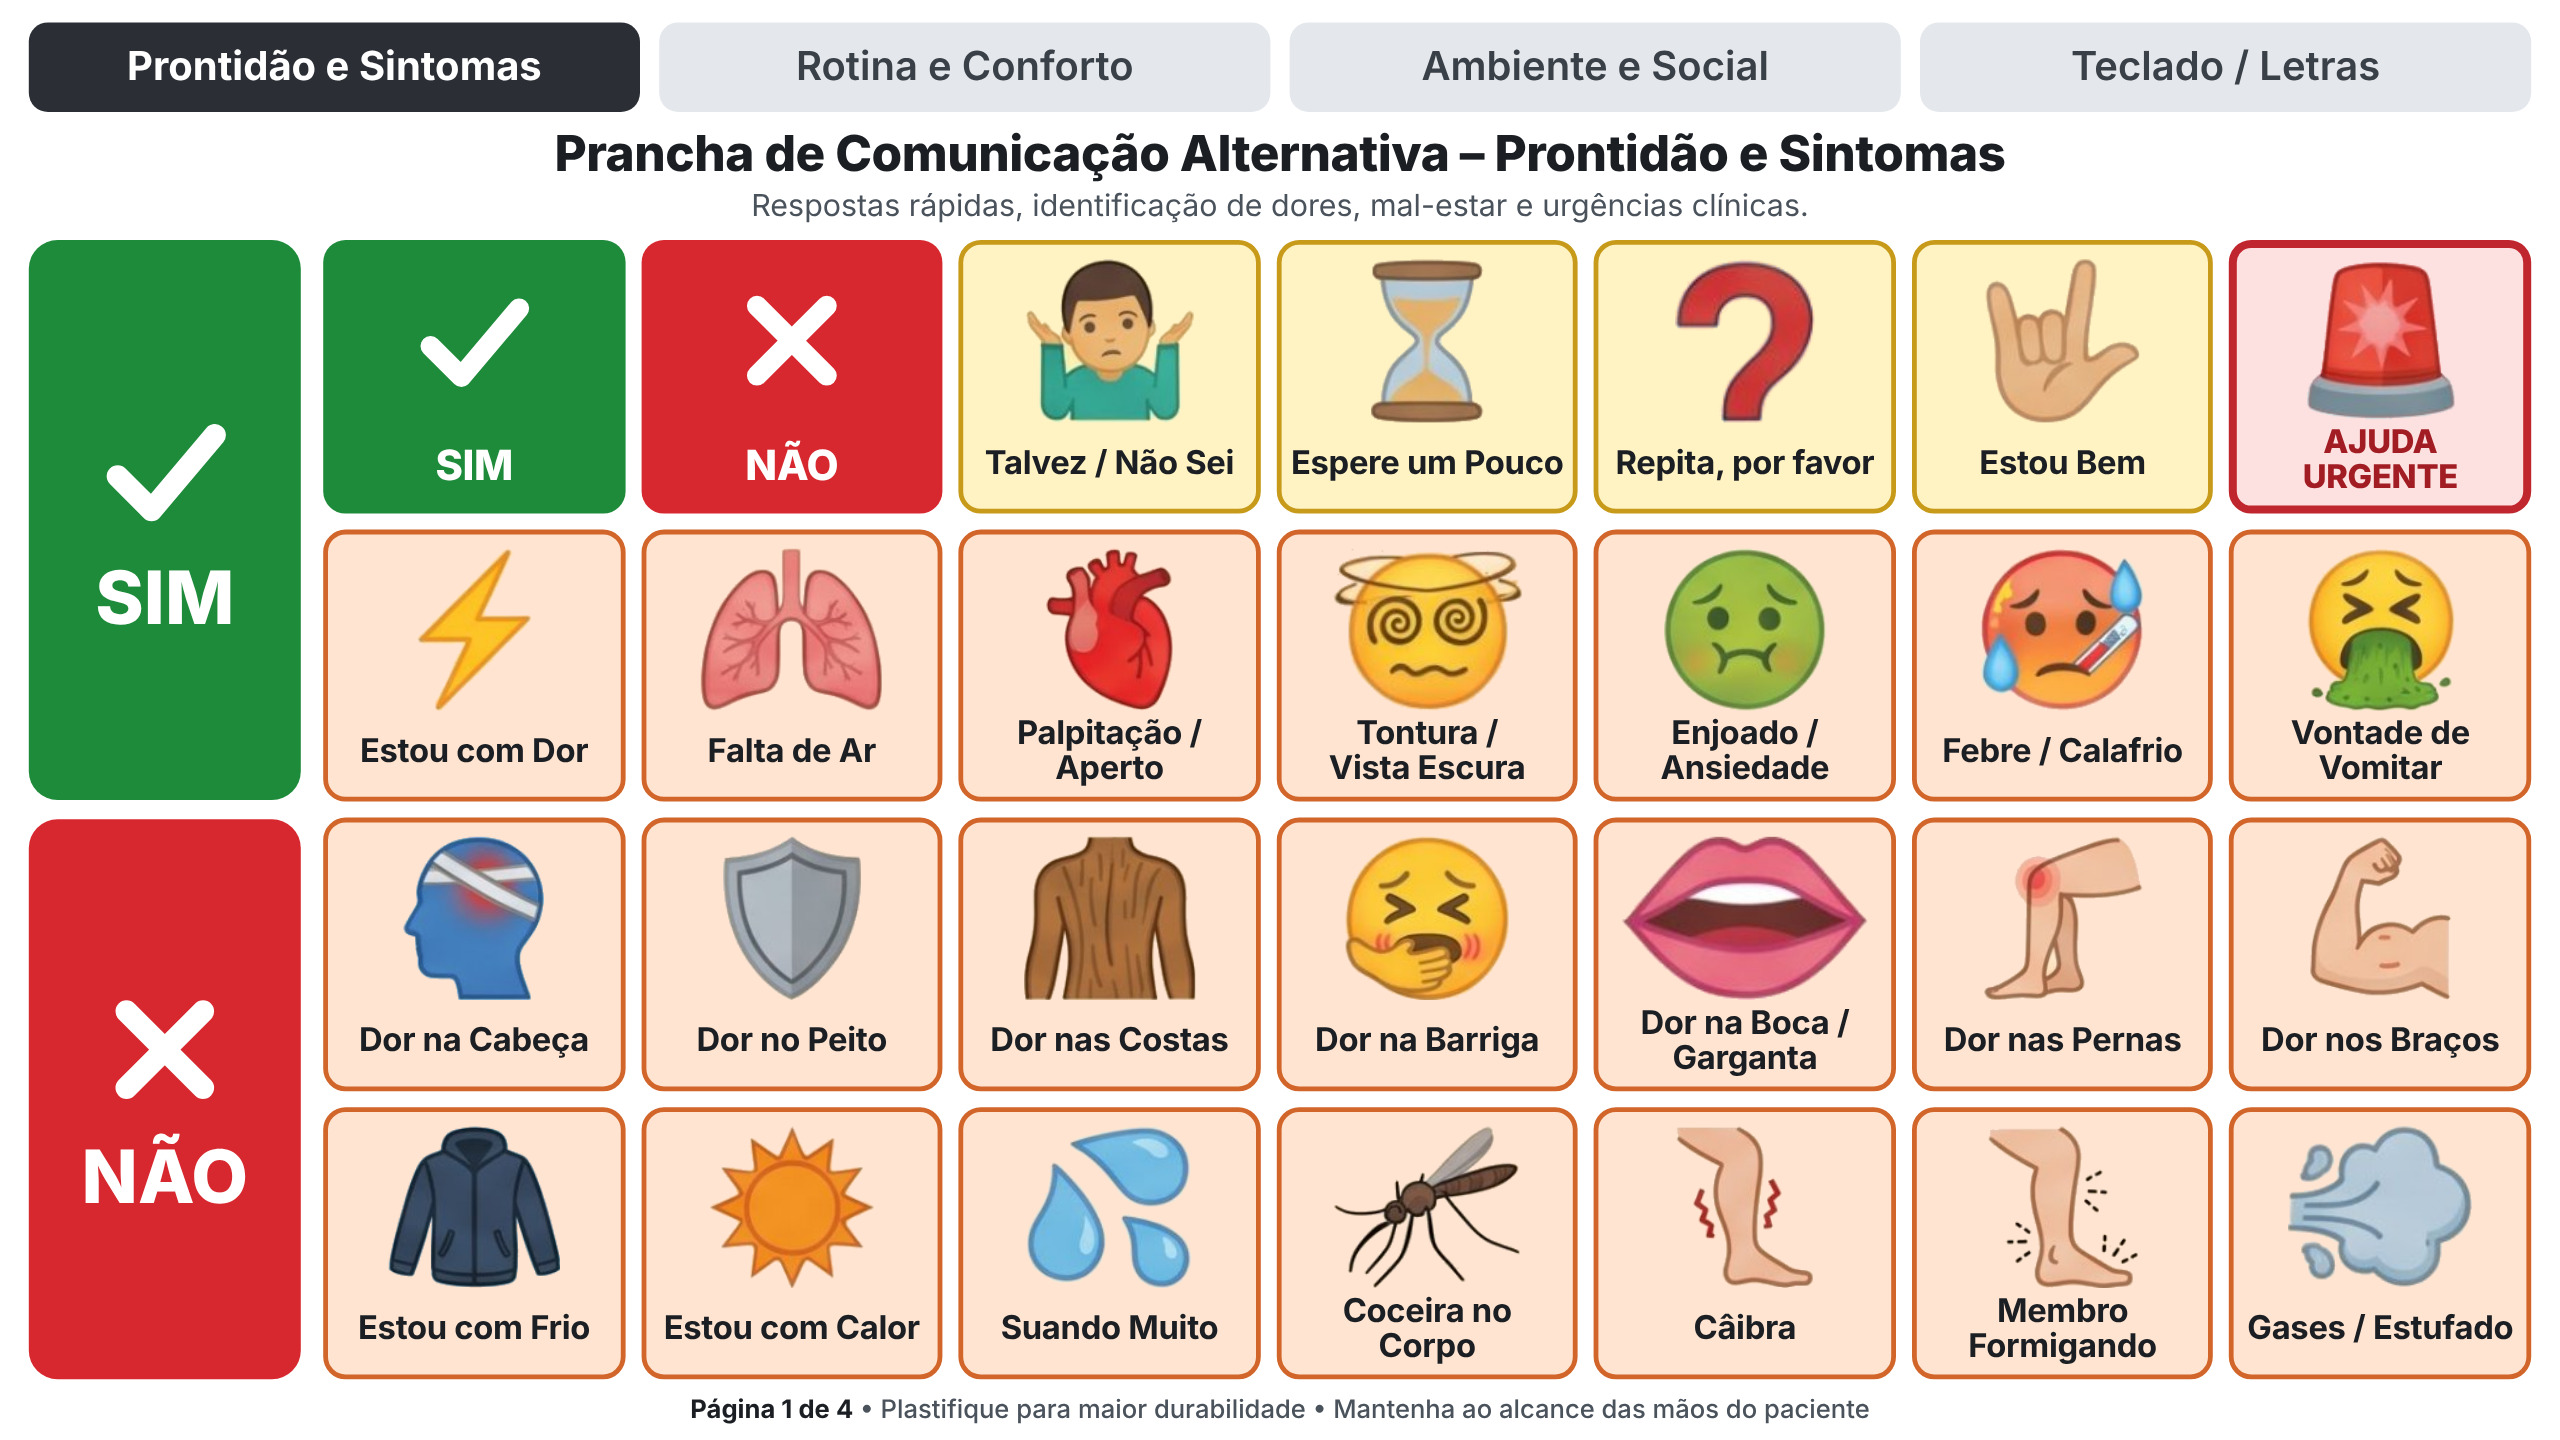
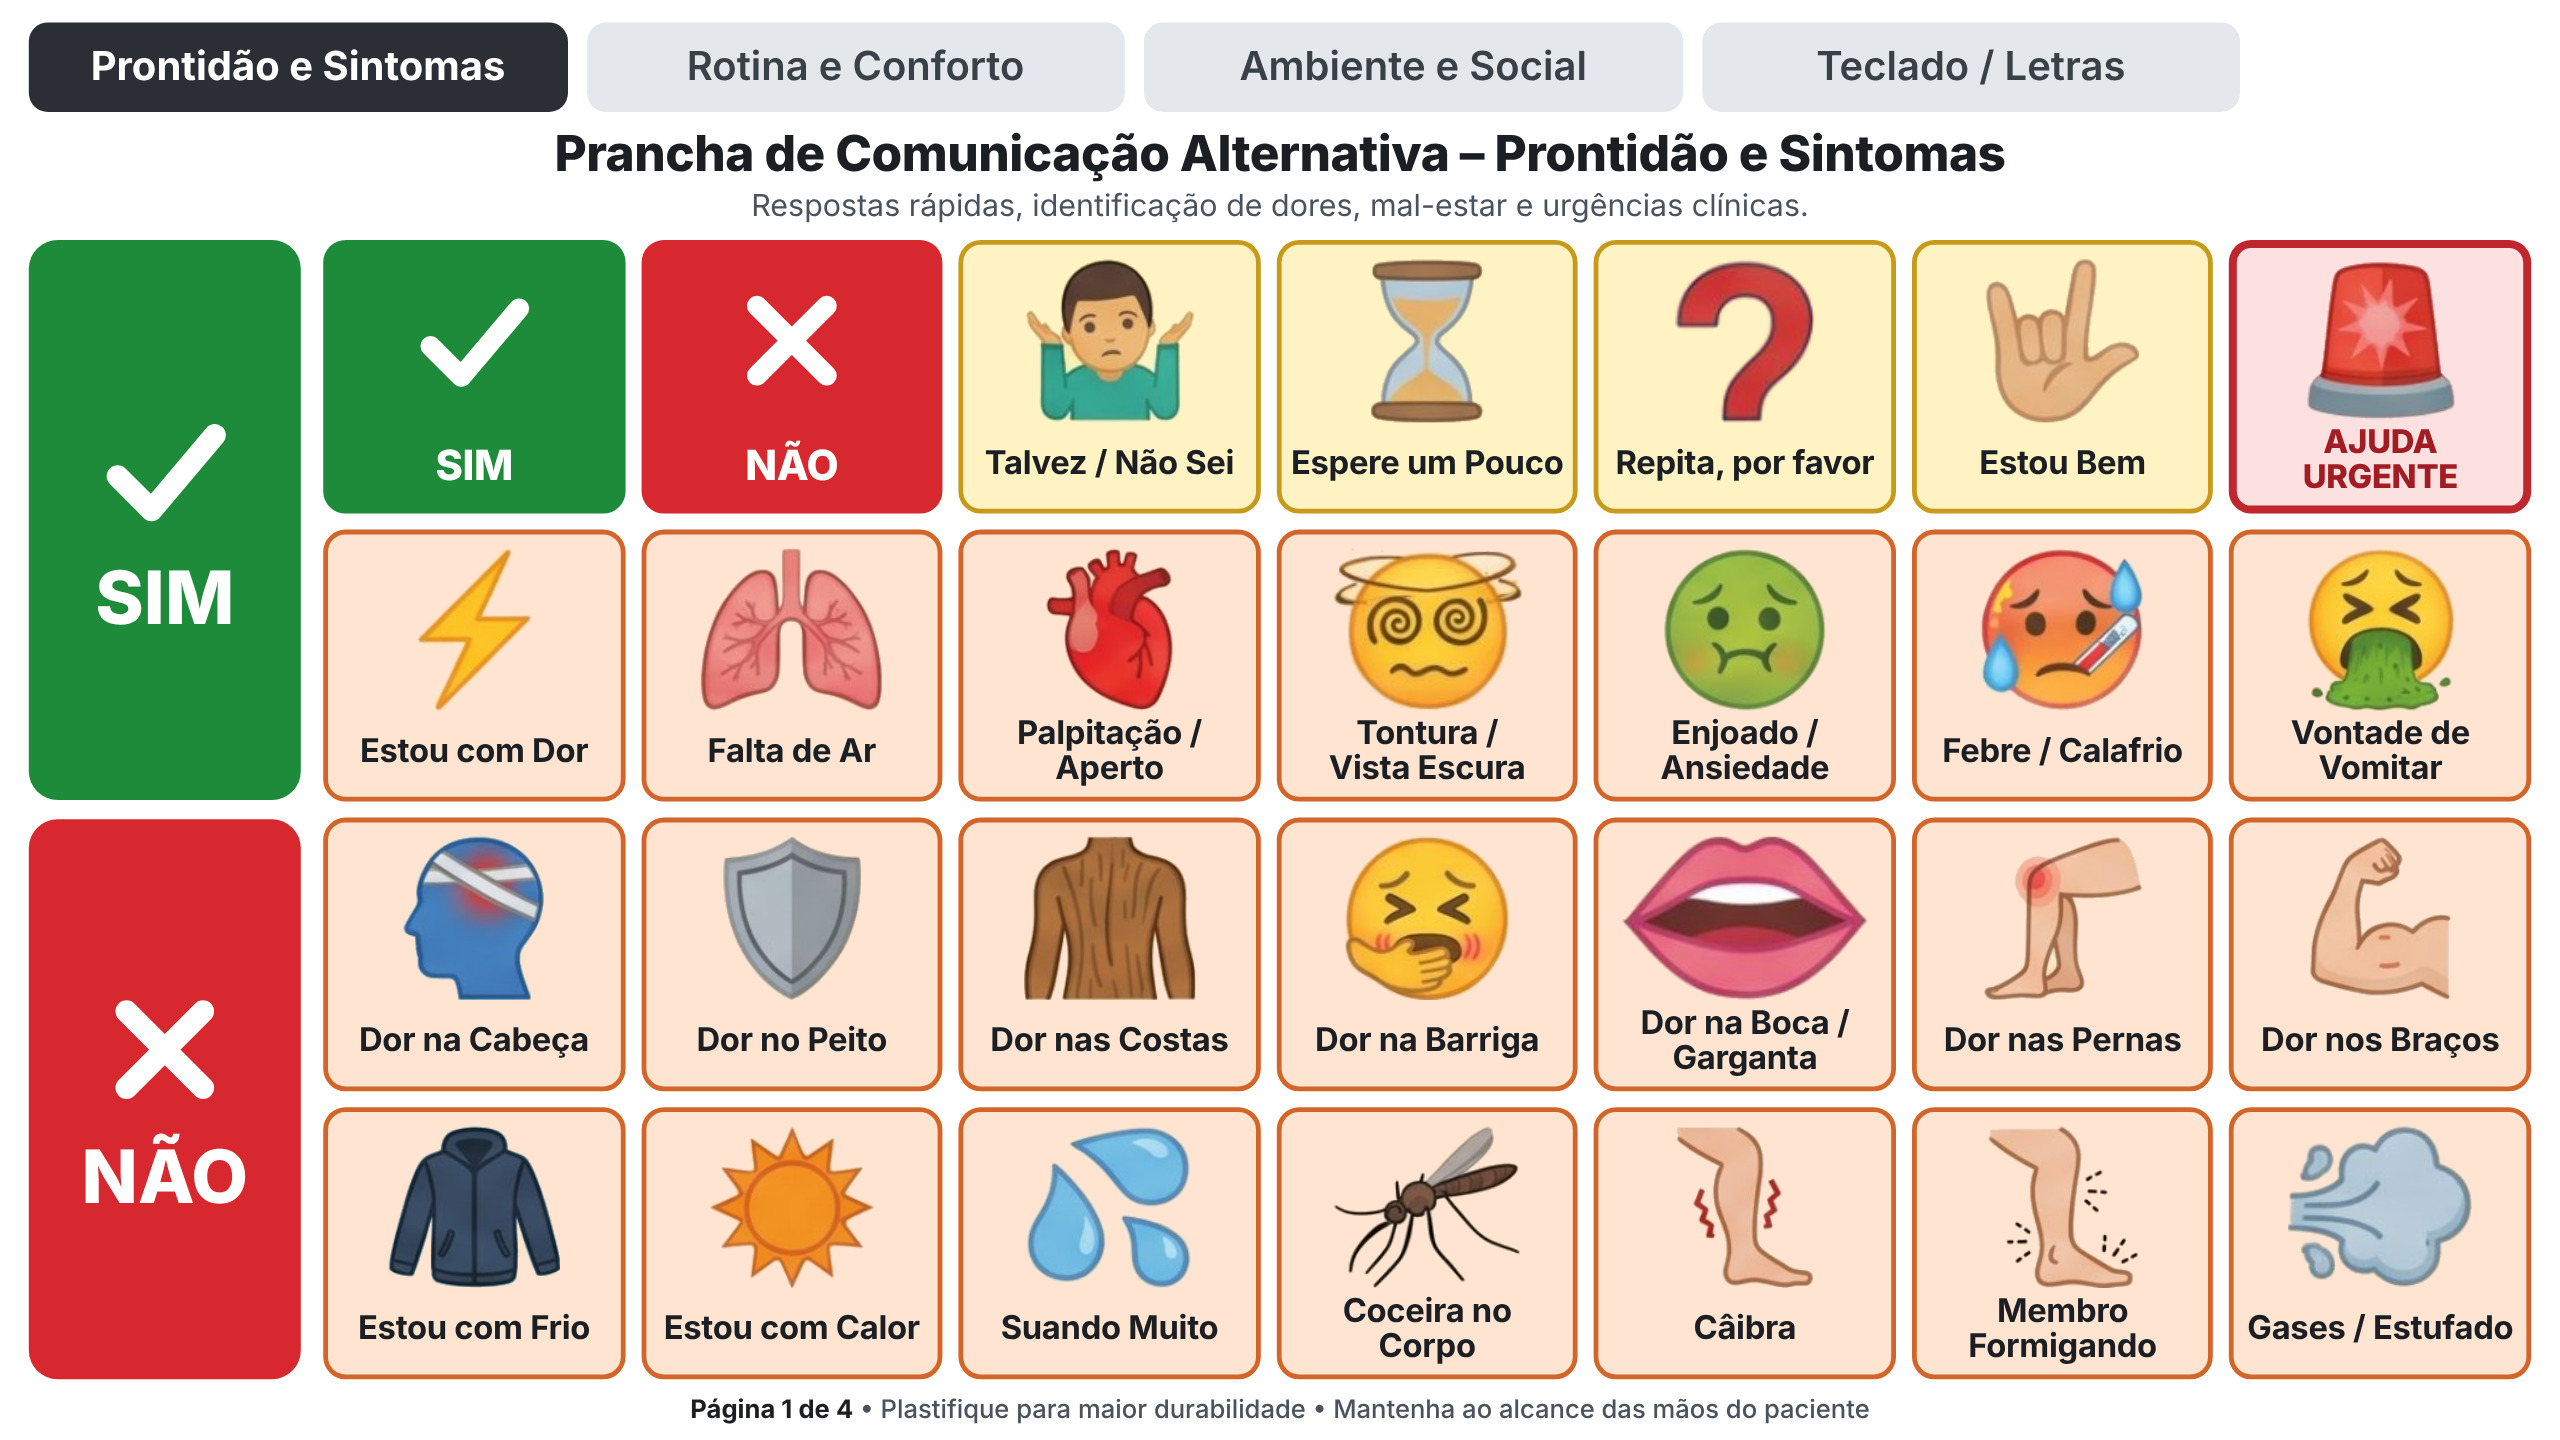
Adiciona botão Fechar à direita das abas
Espaço reservado ao lado de "Teclado / Letras" nas 4 pranchas e botão
real posicionado sobre ele em qualquer tamanho de tela. Pede um segundo
toque para confirmar e avisa quando o sistema não permite fechar.
Cache do service worker vai para v3.

Claude-Session: https://claude.ai/code/session_01WUSof86uYrEvr81Qi9s1FH

Changed region(s): [[0.0312, 0.0, 1.0, 0.0938]]

diff --git a/app.js b/app.js
@@ -112,7 +112,61 @@
       }
     }).catch(function () {});
   }
-  document.addEventListener('pointerup', pedirTelaCheia);
+  document.addEventListener('pointerup', function (e) {
+    if (e.target.closest && e.target.closest('#fechar')) return;
+    pedirTelaCheia();
+  });
+
+  // ---- Botão Fechar (à direita da aba "Teclado / Letras") ----
+  // As pranchas têm 1600x900 de desenho; o espaço do botão é x 1412-1582, y 14-70.
+  var btFechar = document.getElementById('fechar');
+  var rotFechar = btFechar.querySelector('span');
+  var aviso = document.getElementById('aviso');
+  var VAGA = { x: 1412, y: 14, w: 170, h: 56 };
+
+  function posicionarFechar() {
+    var W = palco.clientWidth, H = palco.clientHeight;
+    var s = Math.min(W / 1600, H / 900);          // mesma conta do object-fit: contain
+    var ox = (W - 1600 * s) / 2, oy = (H - 900 * s) / 2;
+    btFechar.style.left = (ox + VAGA.x * s) + 'px';
+    btFechar.style.top = (oy + VAGA.y * s) + 'px';
+    btFechar.style.width = (VAGA.w * s) + 'px';
+    btFechar.style.height = (VAGA.h * s) + 'px';
+    btFechar.style.borderRadius = (12 * s) + 'px';
+    btFechar.style.fontSize = (22 * s) + 'px';
+  }
+  posicionarFechar();
+  window.addEventListener('resize', posicionarFechar);
+  window.addEventListener('orientationchange', posicionarFechar);
+
+  // Primeiro toque pede confirmação; segundo toque (em até 3 s) fecha.
+  var armado = false, timer = null;
+  function desarmar() {
+    armado = false;
+    btFechar.classList.remove('confirmar');
+    rotFechar.textContent = 'Fechar';
+  }
+  function mostrarAviso(txt) {
+    aviso.textContent = txt;
+    aviso.hidden = false;
+    setTimeout(function () { aviso.hidden = true; }, 4000);
+  }
+  btFechar.addEventListener('click', function () {
+    if (!armado) {
+      armado = true;
+      btFechar.classList.add('confirmar');
+      rotFechar.textContent = 'Toque de novo';
+      timer = setTimeout(desarmar, 3000);
+      return;
+    }
+    clearTimeout(timer);
+    desarmar();
+    window.close();
+    // Se o sistema não deixar fechar (ex.: aberto numa aba comum do Chrome)
+    setTimeout(function () {
+      if (!document.hidden) mostrarAviso('Não foi possível fechar por aqui. Use o botão ou gesto de início do Android.');
+    }, 500);
+  });
 
   // ---- Funcionar offline ----
   if ('serviceWorker' in navigator) {

diff --git a/style.css b/style.css
@@ -37,6 +37,58 @@ body {
   justify-content: center;
 }
 
+/* Botão Fechar: fica parado sobre o espaço reservado à direita das abas.
+   Posição e tamanho são calculados em app.js para acompanhar a prancha em qualquer tela. */
+#fechar {
+  position: fixed;
+  z-index: 5;
+  display: flex;
+  align-items: center;
+  justify-content: center;
+  gap: 0.35em;
+  padding: 0;
+  border: 0;
+  background: #E4E7EB;
+  color: #3a4048;
+  font-family: system-ui, -apple-system, Roboto, "Segoe UI", sans-serif;
+  font-weight: 700;
+  white-space: nowrap;
+  touch-action: manipulation;
+  -webkit-tap-highlight-color: transparent;
+}
+#fechar svg {
+  width: 1.15em;
+  height: 1.15em;
+  flex: none;
+  fill: none;
+  stroke: currentColor;
+  stroke-width: 2.4;
+  stroke-linecap: round;
+  stroke-linejoin: round;
+}
+#fechar.confirmar svg { display: none; }
+#fechar.confirmar span { font-size: 0.86em; }
+#fechar.confirmar {
+  background: #FFF3C4;
+  color: #5c4604;
+  box-shadow: inset 0 0 0 3px #C79A1A;
+}
+
+#aviso {
+  position: fixed;
+  z-index: 6;
+  left: 50%;
+  bottom: 5%;
+  transform: translateX(-50%);
+  max-width: 90vw;
+  padding: 0.7em 1.1em;
+  border-radius: 12px;
+  background: #2B2F35;
+  color: #fff;
+  font: 500 17px system-ui, -apple-system, Roboto, sans-serif;
+  text-align: center;
+}
+
 .prancha img {
   width: 100%;
   height: 100%;

diff --git a/index.html b/index.html
@@ -21,6 +21,11 @@
     <div class="prancha"><img src="img/p4-teclado-letras.jpg" alt="Prancha 4: Teclado e Letras" draggable="false"></div>
   </div>
 </main>
+<button id="fechar" type="button" aria-label="Fechar o app">
+  <svg viewBox="0 0 24 24" aria-hidden="true"><path d="M9 4H6a2 2 0 0 0-2 2v12a2 2 0 0 0 2 2h3"/><path d="M16 16l4-4-4-4"/><path d="M20 12H10"/></svg>
+  <span>Fechar</span>
+</button>
+<div id="aviso" role="status" hidden></div>
 <script src="app.js"></script>
 </body>
 </html>

diff --git a/sw.js b/sw.js
@@ -1,6 +1,6 @@
 // Guarda tudo no aparelho na primeira abertura; depois funciona sem internet.
 // Ao trocar alguma imagem, mude a versão abaixo para o app baixar de novo.
-var CACHE = 'pranchas-v2';
+var CACHE = 'pranchas-v3';
 var ARQUIVOS = [
   './',
   'index.html',
